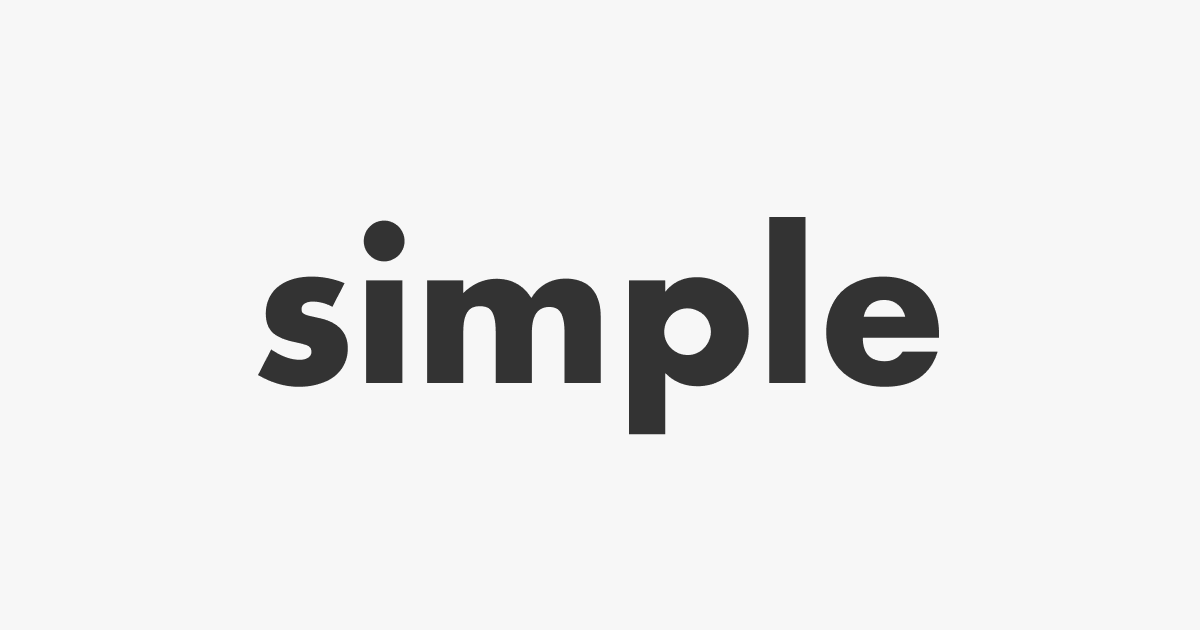
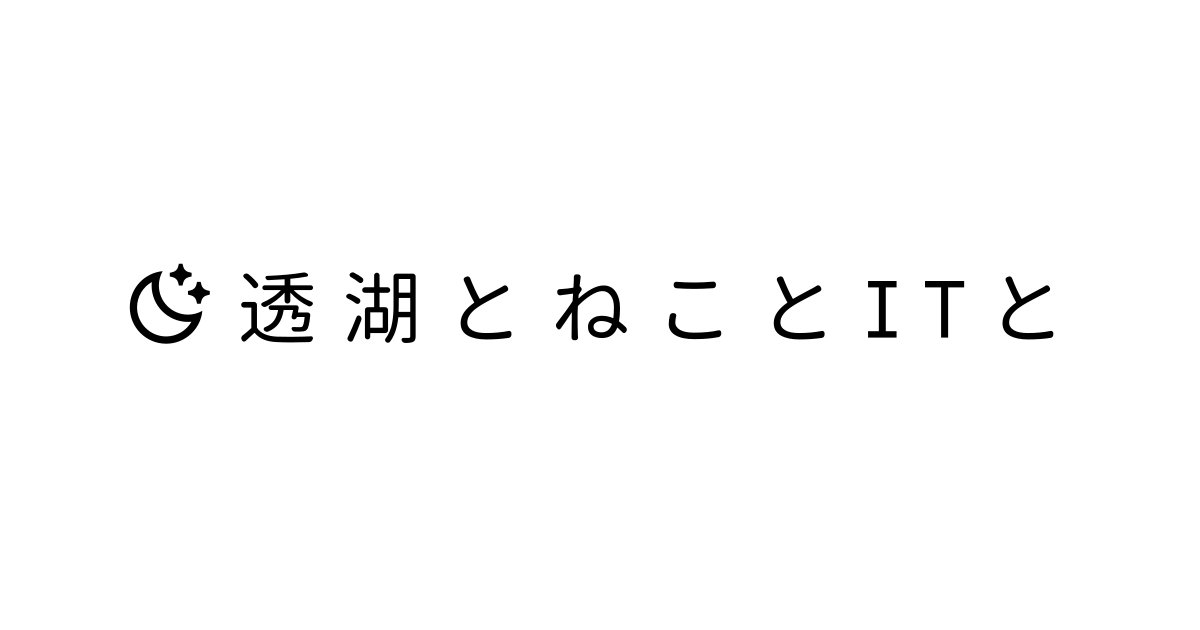
first customized

Changed region(s): [[0.0925, 0.3317, 0.8017, 0.6937], [0.8325, 0.4524, 0.8942, 0.5429]]

diff --git a/app/layout.tsx b/app/layout.tsx
@@ -8,11 +8,11 @@ import styles from './layout.module.css';
 
 export const metadata = {
   metadataBase: new URL(process.env.BASE_URL || 'http://localhost:3000'),
-  title: 'Simple Blog',
-  description: 'A simple blog presented by microCMS',
+  title: '透湖とねことITと',
+  description: '雑多にいろんなことを書くブログ Presented by microCMS',
   openGraph: {
     title: 'Simple Blog',
-    description: 'A simple blog presented by microCMS',
+    description: '雑多にいろんなことを書くブログ Presented by microCMS',
     images: '/ogp.png',
   },
   alternates: {

diff --git a/components/Footer/index.tsx b/components/Footer/index.tsx
@@ -3,7 +3,7 @@ import styles from './index.module.css';
 export default function Footer() {
   return (
     <footer className={styles.footer}>
-      <p className={styles.cr}>© SIMPLE. All Rights Reserved 2023</p>
+      <p className={styles.cr}>© 透湖とねことITと. All Rights Reserved 2023</p>
     </footer>
   );
 }

diff --git a/components/Header/index.tsx b/components/Header/index.tsx
@@ -8,7 +8,7 @@ export default function Header() {
       <Link href="/">
         <Image
           src="/logo.svg"
-          alt="SIMPLE"
+          alt="透湖とねことITと"
           className={styles.logo}
           width={348}
           height={133}

diff --git a/README.md b/README.md
@@ -1,8 +1,8 @@
-# シンプルなブログ
+# 透湖とねこと IT と
 
 ![](public/img-cover.png)
 
-microCMS 公式のシンプルなブログのテンプレートです。
+microCMS 公式のシンプルなブログのテンプレートを使用した私のブログのリポジトリです。
 
 ## 動作環境
 
@@ -50,10 +50,10 @@ npm run dev
 
 ## 画面プレビューの設定
 
-下書き状態のコンテンツをプレビューするために、microCMS管理画面にて画面プレビューの設定が必要です。
+下書き状態のコンテンツをプレビューするために、microCMS 管理画面にて画面プレビューの設定が必要です。
 
-ブログAPIの「API設定 > 画面プレビュー」に下記のように設定してください。  
-※`your-domain`部分はデプロイ先のドメインに置き換えてください。（localhost指定でも動作します）
+ブログ API の「API 設定 > 画面プレビュー」に下記のように設定してください。  
+※`your-domain`部分はデプロイ先のドメインに置き換えてください。（localhost 指定でも動作します）
 
 ![blog-preview](https://github.com/microcmsio/nextjs-simple-blog-template/assets/4659294/5045ac9e-3699-47b4-8927-4187114d75bd)
 
